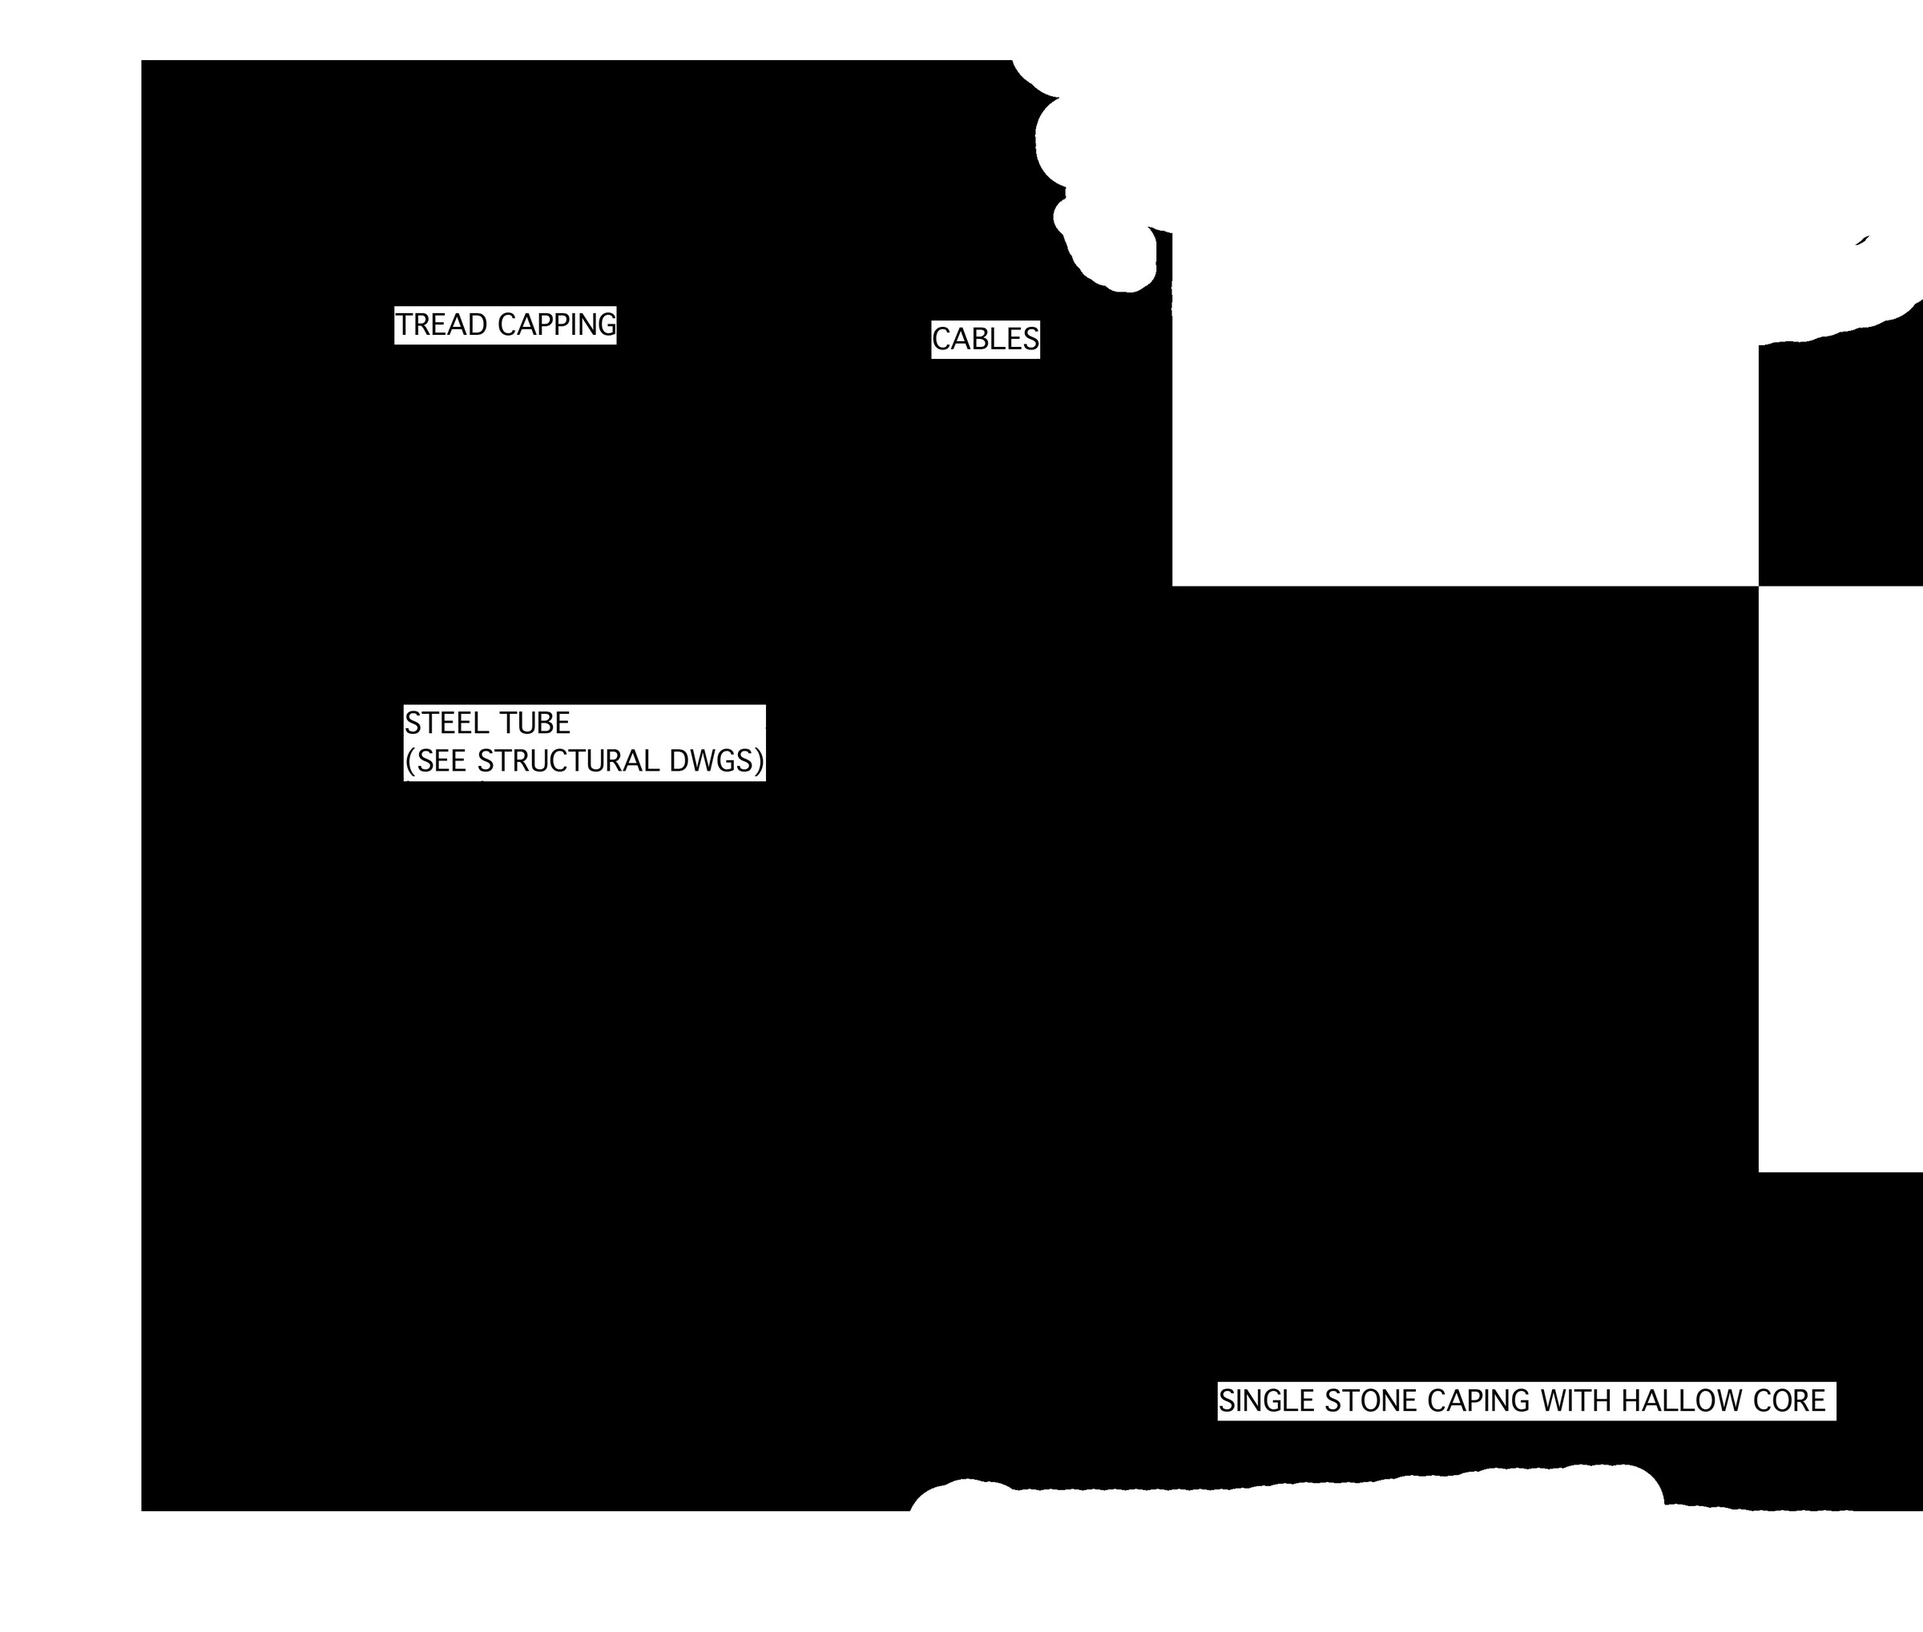
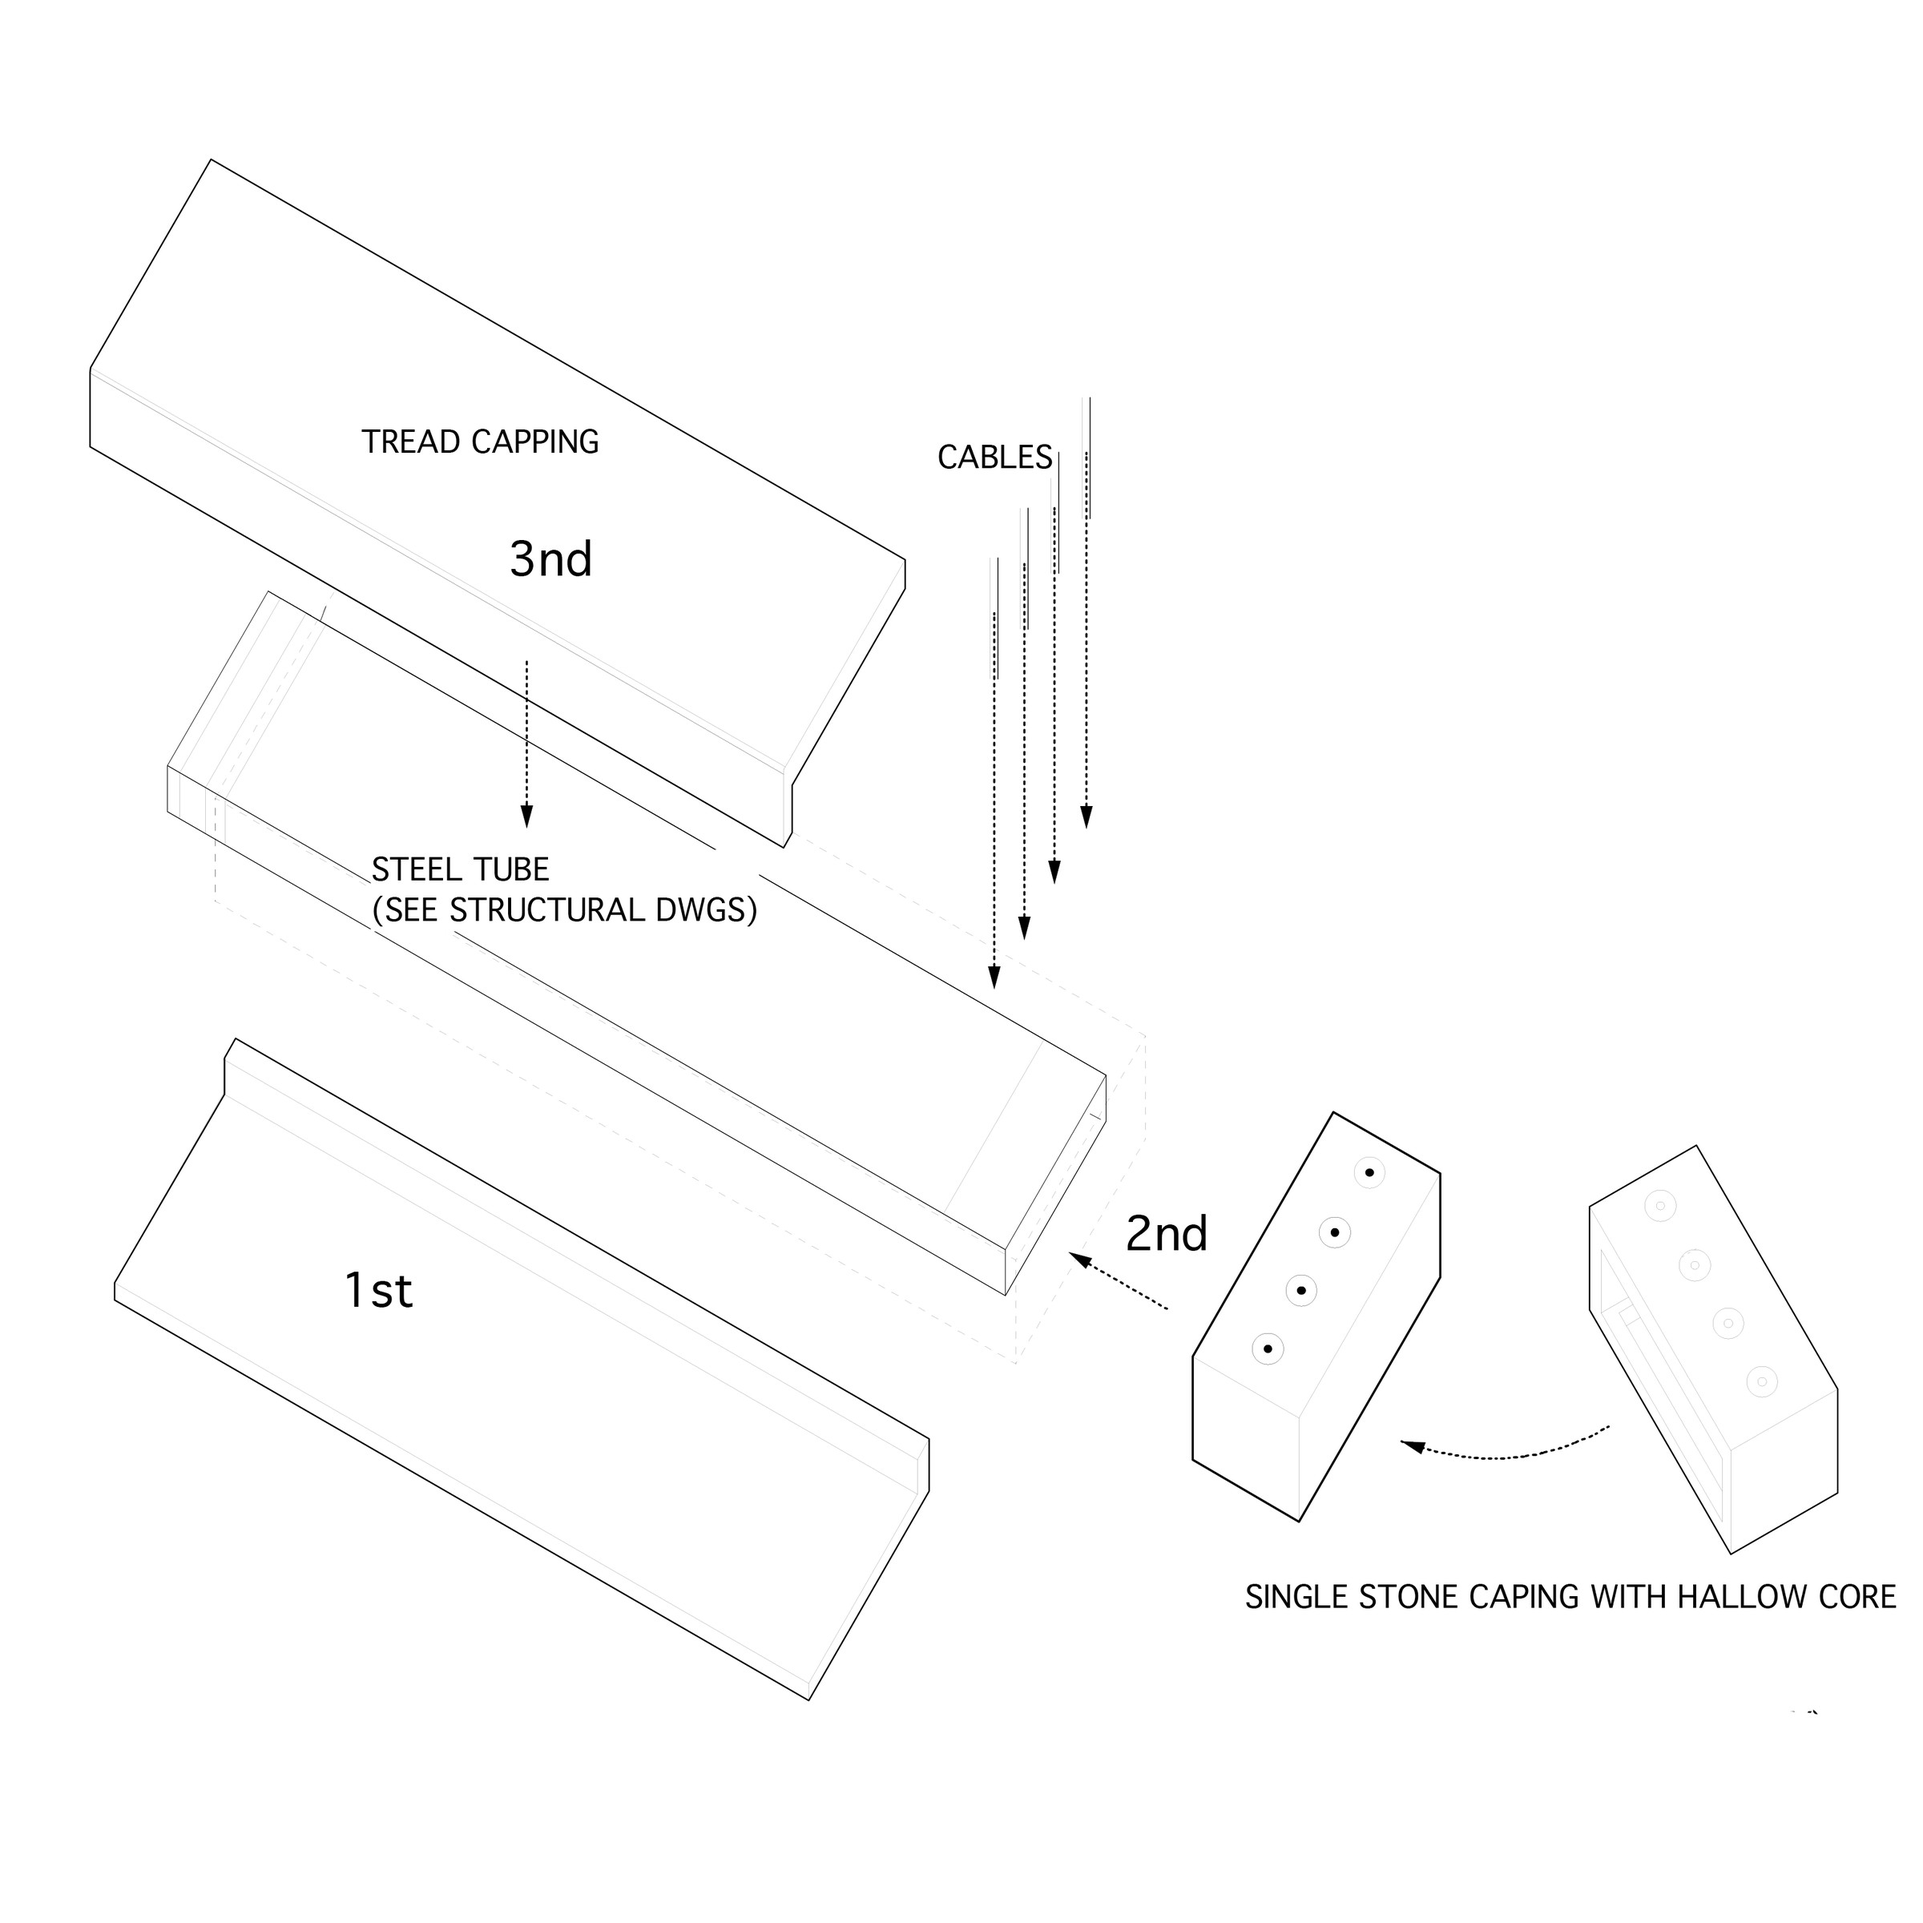
Detailing: replace node 13 axonometric image
Swap legacy AutoCAD axon drawing for the exploded assembly view.
Cache-bust ?v=2; build v0.3.17.

diff --git a/computational-design/detailing/index.html b/computational-design/detailing/index.html
@@ -121,7 +121,7 @@
           <figure class="detail" tabindex="0" role="button" data-key="d10" data-num="10"><div class="detail-img" aria-hidden="true"><span class="detail-num">10</span></div><figcaption class="detail-cap"><span class="detail-title" id="d10t">Threshold & balcony</span><span class="detail-note" id="d10n">The flat, trafficked, waterproofed node where most leaks are actually born.</span></figcaption></figure>
           <figure class="detail" tabindex="0" role="button" data-key="d11" data-num="11" data-img="/assets/comp-design/detailing-d11-facade-structure.jpg"><div class="detail-img"><img src="/assets/comp-design/detailing-d11-facade-structure.jpg" alt="Parametric facade elevation, openings, and linked structural system" width="2560" height="2560" loading="lazy" /></div><figcaption class="detail-cap"><span class="detail-title" id="d11t">Facade, structure &amp; openings</span><span class="detail-note" id="d11n">Three stacked views of the same facade zone — elevation, opening geometry, and the structural system below. Windows sit inside resolved detail parameters: change an opening's shape and the rest of the facade redraws with it. Structural beams within the zone follow the same drivers, so one parameter click updates both the envelope drawing and the framing it supports. Control points move up or down to soften curves or tune any element to the design; geometry, structure, and sheet stay one coordinated graph.</span></figcaption></figure>
           <figure class="detail" tabindex="0" role="button" data-key="d12" data-num="12"><div class="detail-img" aria-hidden="true"><span class="detail-num">12</span></div><figcaption class="detail-cap"><span class="detail-title" id="d12t">Roof drainage & scupper</span><span class="detail-note" id="d12n">Primary and overflow paths sized so a blocked drain never becomes a flooded roof.</span></figcaption></figure>
-          <figure class="detail" tabindex="0" role="button" data-key="d13" data-num="13" data-img="/assets/comp-design/detailing-d13-legacy-autocad-axon.jpg"><div class="detail-img"><img src="/assets/comp-design/detailing-d13-legacy-autocad-axon.jpg" alt="Legacy AutoCAD axonometric stair drawing with labeled components" width="2400" height="2037" loading="lazy" /></div><figcaption class="detail-cap"><span class="detail-title" id="d13t">Legacy AutoCAD axonometric</span><span class="detail-note" id="d13n">Legacy AutoCAD axonometric (pre-3D) drawing. Uses classic axon/hand-drafting conventions translated into CAD to read as a 3D object on a 2D sheet. Included as proof of [i]s ability to communicate spatial complexity clearly without relying on 3D modeling or rendering workflows.</span></figcaption></figure>
+          <figure class="detail" tabindex="0" role="button" data-key="d13" data-num="13" data-img="/assets/comp-design/detailing-d13-legacy-autocad-axon.jpg?v=2"><div class="detail-img"><img src="/assets/comp-design/detailing-d13-legacy-autocad-axon.jpg?v=2" alt="Legacy AutoCAD axonometric stair drawing with labeled components" width="2400" height="2400" loading="lazy" /></div><figcaption class="detail-cap"><span class="detail-title" id="d13t">Legacy AutoCAD axonometric</span><span class="detail-note" id="d13n">Legacy AutoCAD axonometric (pre-3D) drawing. Uses classic axon/hand-drafting conventions translated into CAD to read as a 3D object on a 2D sheet. Included as proof of [i]s ability to communicate spatial complexity clearly without relying on 3D modeling or rendering workflows.</span></figcaption></figure>
           <figure class="detail" tabindex="0" role="button" data-key="d14" data-num="14"><div class="detail-img" aria-hidden="true"><span class="detail-num">14</span></div><figcaption class="detail-cap"><span class="detail-title" id="d14t">Handrail fixing</span><span class="detail-note" id="d14n">A small bracket carrying real load; substrate, anchor, and tolerance all have to agree.</span></figcaption></figure>
           <div class="hole"><span class="hole-title" id="h3t">Rows of nodes are the proof</span><p class="hole-body" id="h3b">Renders persuade; nodes legitimize. A wall of resolved points in the graph is evidence that the idea was carried all the way to buildable, not stopped at the picture. This is the part of practice that earns trust on site, and the part a headed workflow protects.</p></div>
           <figure class="detail" tabindex="0" role="button" data-key="d15" data-num="15"><div class="detail-img" aria-hidden="true"><span class="detail-num">15</span></div><figcaption class="detail-cap"><span class="detail-title" id="d15t">Material transition</span><span class="detail-note" id="d15n">Stone to render, metal to timber: the reveal that lets unlike materials meet honestly.</span></figcaption></figure>
@@ -147,7 +147,7 @@
       <div class="footer-left">
         <div class="footer-brand">© Iterative Studio</div>
         <div class="footer-note" id="footerNote">Detailing</div>
-        <div class="footer-version" id="buildVersion">Build: v0.3.16</div>
+        <div class="footer-version" id="buildVersion">Build: v0.3.17</div>
       </div>
       <div class="footer-mark" aria-hidden="true">[i]</div>
       <div class="footer-right">
@@ -168,7 +168,7 @@
   </div>
 
   <script>
-const BUILD = "v0.3.16";
+const BUILD = "v0.3.17";
 
 const i18n = {
   en: {
